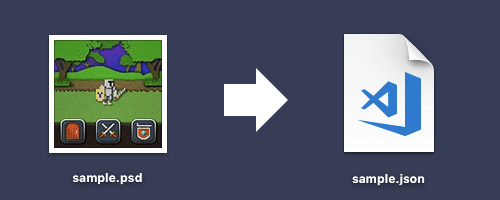
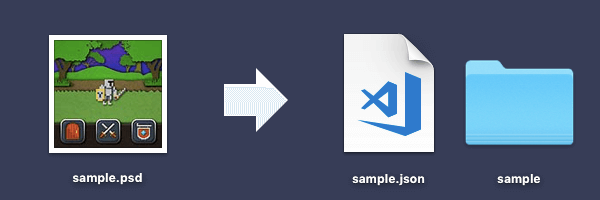
Supports Img output

diff --git a/test/index.js b/test/index.js
@@ -2,9 +2,11 @@ const assert = require('assert');
 const psd2json = require('../index.js');
 const path = require('path');
 const fs = require('fs');
+const rimraf = require('rimraf');
 
-const PSD_FILE_NAME = 'sample.psd';
-const OUTPUT_FILE_NAME = 'sample.json';
+const FILE_NAME = 'sample';
+const PSD_FILE_NAME = FILE_NAME + '.psd';
+const OUTPUT_FILE_NAME = FILE_NAME + '.json';
 
 const OUTPUT_DATA = fs.readFileSync(path.join(__dirname, 'sample_test.json'), 'utf-8');
 
@@ -36,7 +38,7 @@ describe('Passing a file path.', function() {
   });
 });
 
-describe('Passing file path and directory path.', function() {
+describe('Passing file path and JSON directory path.', function() {
 
   const PSD_FILE_PATH = path.join(__dirname, PSD_FILE_NAME);
   const OUTPUT_DIR = path.join(__dirname, 'output');
@@ -45,10 +47,9 @@ describe('Passing file path and directory path.', function() {
   let returnData = '';
 
   before(function(done) {
-    fs.unlink(OUT_FILE_PATH, () => {
-      returnData = psd2json(PSD_FILE_PATH, OUTPUT_DIR);
-      done();
-    });
+    rimraf.sync(OUTPUT_DIR);
+    returnData = psd2json(PSD_FILE_PATH, {outJsonDir:OUTPUT_DIR});
+    done();
   });
 
   it('Correct output path.', function() {
@@ -60,6 +61,38 @@ describe('Passing file path and directory path.', function() {
       OUTPUT_DATA,
       fs.readFileSync(OUT_FILE_PATH, 'utf-8')
     );
+  });
+
+  it('Correct return JSON.', function() {
+    assert.equal(
+      OUTPUT_DATA,
+      returnData
+    );
+  });
+});
+
+describe('Passing file path and IMG directory path.', function() {
+
+  const PSD_FILE_PATH = path.join(__dirname, PSD_FILE_NAME);
+  const OUTPUT_DIR = path.join(__dirname, 'output');
+
+  let returnData = '';
+
+  before(function(done) {
+    rimraf.sync(OUTPUT_DIR);
+    returnData = psd2json(PSD_FILE_PATH, {outImgDir:OUTPUT_DIR});
+    done();
+  });
+
+  it('Correct output path.', function() {
+    assert.ok(fs.statSync(path.join(OUTPUT_DIR, FILE_NAME, 'background', 'ground.png')));
+    assert.ok(fs.statSync(path.join(OUTPUT_DIR, FILE_NAME, 'background', 'object.png')));
+    assert.ok(fs.statSync(path.join(OUTPUT_DIR, FILE_NAME, 'background', 'sky.png')));
+    assert.ok(fs.statSync(path.join(OUTPUT_DIR, FILE_NAME, 'field', 'player.png')));
+    assert.ok(fs.statSync(path.join(OUTPUT_DIR, FILE_NAME, 'ui', 'footer', 'back.png')));
+    assert.ok(fs.statSync(path.join(OUTPUT_DIR, FILE_NAME, 'ui', 'footer', 'button1.png')));
+    assert.ok(fs.statSync(path.join(OUTPUT_DIR, FILE_NAME, 'ui', 'footer', 'button2.png')));
+    assert.ok(fs.statSync(path.join(OUTPUT_DIR, FILE_NAME, 'ui', 'footer', 'button3.png')));
   });
 
   it('Correct return JSON.', function() {

diff --git a/index.js b/index.js
@@ -1,13 +1,16 @@
 const fs = require('fs');
 const path = require('path');
 const psd = require('psd');
+const mkdirp = require('mkdirp');
 
 /**
  * Output PSD layout to JSON
  * @param {string} psdFile Relative path or absolute path of PSD file
- * @param {string} [outDir] Set this when outputting to a different directory from the PSD file
+ * @param {Object} [options] options
+ * @param {string} [options.outJsonDir] Set to output files
+ * @param {string} [options.outImgDir] Set to output files
  */
-function psd2json(psdFile, outDir) {
+function psd2json(psdFile, options = {}) {
   const psdFilePath = path.resolve(psdFile);
   const psdFileName = path.basename(psdFilePath, path.extname(psdFilePath));
 
@@ -39,7 +42,7 @@ function psd2json(psdFile, outDir) {
     if (nodesName === undefined) {
       nodesName = '';
     } else {
-      nodesName += '_';
+      nodesName += path.sep;
     }
   
     while (nodesIndex < nodes.length) {
@@ -59,6 +62,11 @@ function psd2json(psdFile, outDir) {
         queueNodesStructure.push(structure);
         continue queueLoop;
       } else {
+        if (options.outImgDir) {
+          const outImgDirPath = path.resolve(options.outImgDir, psdFileName, nodesName);
+          mkdirp.sync(outImgDirPath);
+          node.layer.image.saveAsPng(path.join(outImgDirPath, node.name + '.png'));
+        }
         const structure = {
           'name' : node.name,
           'x' : node.layer.left,
@@ -78,12 +86,12 @@ function psd2json(psdFile, outDir) {
 
   const outJsonData = JSON.stringify(psdStructure.group);
 
-  if (outDir) {
-    const outDirPath = path.resolve(outDir);
-    const outJsonPath = path.join(outDirPath, psdFileName + '.json');
+  if (options.outJsonDir) {
+    const outJsonDirPath = path.resolve(options.outJsonDir);
+    const outJsonPath = path.join(outJsonDirPath, psdFileName + '.json');
     // make output directory.
-    if (!fs.existsSync(outDirPath)) {
-      fs.mkdirSync(outDirPath);
+    if (!fs.existsSync(outJsonDirPath)) {
+      fs.mkdirSync(outJsonDirPath);
     }
     // output file.
     fs.writeFileSync(outJsonPath, outJsonData);

diff --git a/README.md b/README.md
@@ -22,8 +22,9 @@ Import this module to your source code and call like below.
 ```
 var psd2json = require('psd2json');
 
-var jsonData = psd2json('./target.psd');              // return JSON
-var jsonData = psd2json('./target.psd', './outdir');  // return JSON and output /outdir/target.json
+var jsonData = psd2json('./target.psd');                            // return JSON
+var jsonData = psd2json('./target.psd', {outJsonDir:'./outdir'});   // return JSON and output /outdir/target.json
+var jsonData = psd2json('./target.psd', {outImgDir:'./outdir'});    // return JSON and output /outdir/target/*.png
 ```
 
 # License
